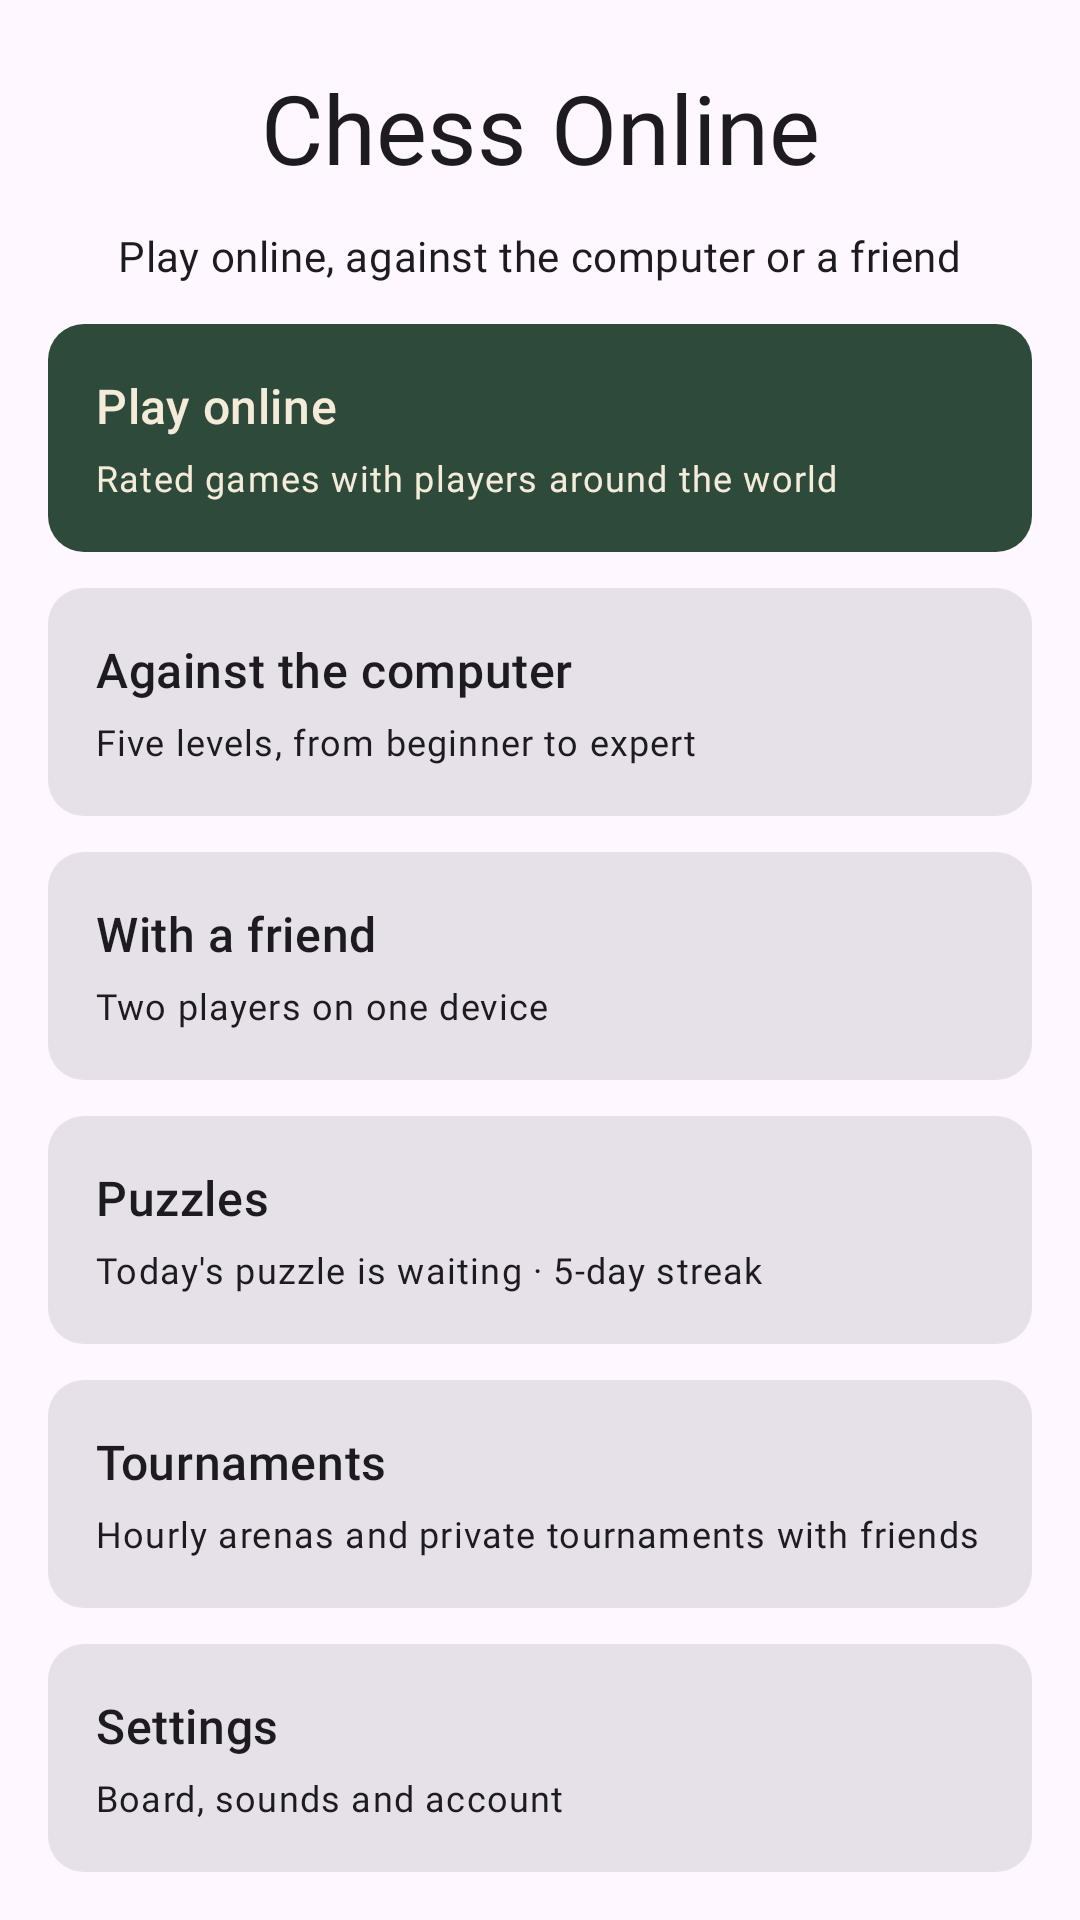
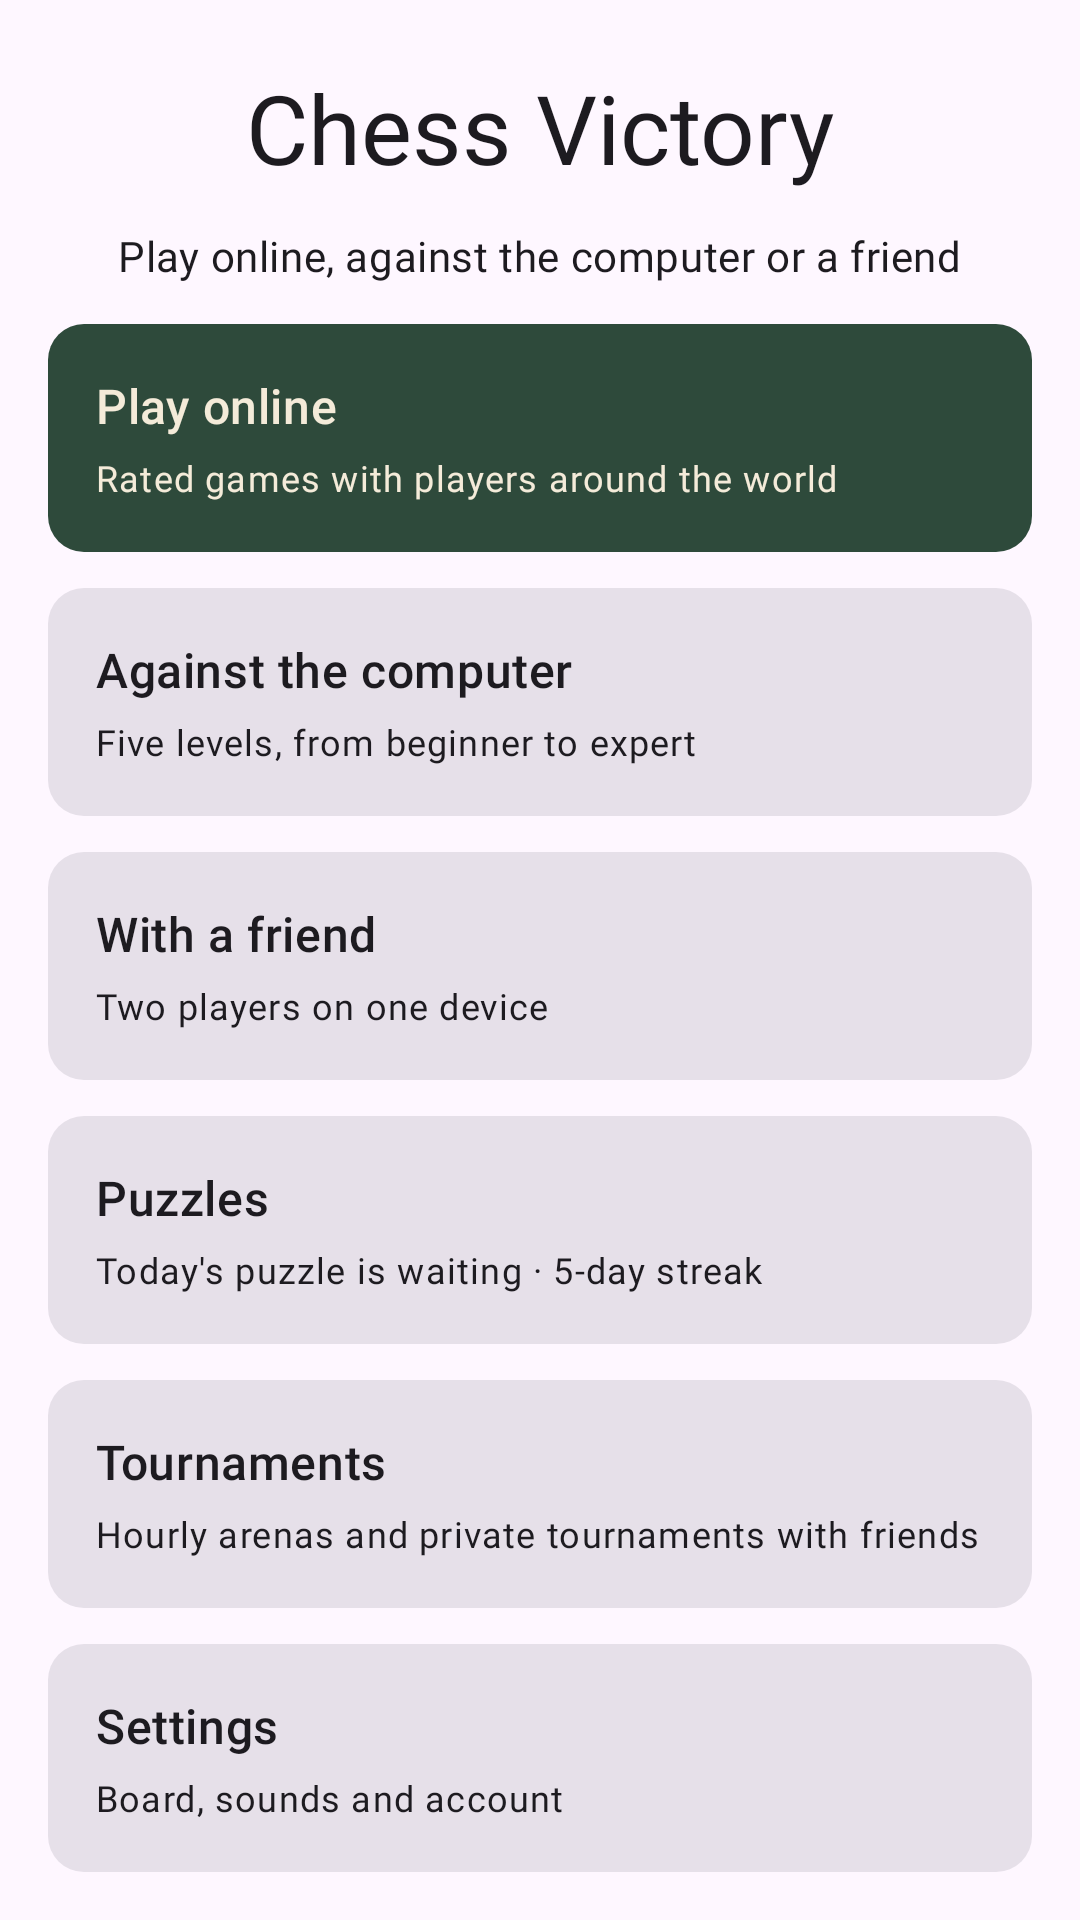
Rename the app to Chess Victory and fill in the operator's details
- Launcher name, invitation text, licenses screen, website and store listing texts use Chess Victory;
  store images re-rendered.
- Privacy policy, terms and the account deletion page name the operator: OOO «СИТИОПТОМ»,
  OGRN 1107746643509, INN 7722725129, 107553, Moscow, ul. Amurskaya, 1A, bldg. 5, apt. 474.

Claude-Session: https://claude.ai/code/session_01X6DxvEyHVQaRiXzQPfYiU6

Changed region(s): [[0.2139, 0.0312, 0.7639, 0.0938]]

diff --git a/server/src/main/resources/site/terms.html b/server/src/main/resources/site/terms.html
@@ -3,17 +3,16 @@
 <head>
 <meta charset="utf-8">
 <meta name="viewport" content="width=device-width,initial-scale=1">
-<title>Пользовательское соглашение — Шахматы онлайн</title>
+<title>Пользовательское соглашение — Chess Victory</title>
 <link rel="stylesheet" href="/style.css">
 </head>
 <body>
 <nav><a href="/">Главная</a><a href="/privacy.html">Конфиденциальность</a><a href="/delete-account.html">Удаление аккаунта</a><a href="#en">English</a></nav>
 <h1>Пользовательское соглашение</h1>
-<p class="meta">Приложение «Шахматы онлайн» (Android, ru.fourvic.chess). Редакция 1.0 от 27.10.2026.</p>
+<p class="meta">Приложение «Chess Victory» (Android, ru.fourvic.chess). Редакция 1.0 от 27.10.2026.</p>
 
 <h2>1. Стороны и предмет</h2>
-<p>Соглашение заключается между вами и <span class="fill">[ФИО индивидуального предпринимателя или название организации]</span>,
-<span class="fill">[ИНН / ОГРНИП]</span> (далее — «мы»). Мы бесплатно предоставляем право пользоваться приложением: играть
+<p>Соглашение заключается между вами и ООО «СИТИОПТОМ» (ОГРН 1107746643509, ИНН 7722725129, далее — «мы»). Мы бесплатно предоставляем право пользоваться приложением: играть
 с компьютером и с другими людьми, решать задачи, участвовать в турнирах. Начиная онлайн-игру, вы принимаете это соглашение
 и <a href="/privacy.html">политику конфиденциальности</a>.</p>
 <p>Если во время поиска партии подходящих соперников в сети нет, с вами может сыграть компьютерный соперник. Такие партии
@@ -54,8 +53,8 @@
 
 <hr id="en">
 <h1>Terms of use</h1>
-<p class="meta">Chess Online for Android (ru.fourvic.chess). Version 1.0 of 27 October 2026.</p>
-<p>These terms are an agreement between you and <span class="fill">[name of the sole proprietor or company]</span> ("we").
+<p class="meta">Chess Victory for Android (ru.fourvic.chess). Version 1.0 of 27 October 2026.</p>
+<p>These terms are an agreement between you and SITIOPTOM LLC (OGRN 1107746643509, INN 7722725129, "we").
 The app is free: you may play against the computer and other people, solve puzzles and join tournaments.
 By playing online you accept these terms and the <a href="/privacy.html#en">privacy policy</a>.
 When nobody suitable is looking for a game, a computer opponent may play you; such games follow the same rules and count

diff --git a/server/src/main/resources/site/privacy.html b/server/src/main/resources/site/privacy.html
@@ -3,17 +3,17 @@
 <head>
 <meta charset="utf-8">
 <meta name="viewport" content="width=device-width,initial-scale=1">
-<title>Политика конфиденциальности — Шахматы онлайн</title>
+<title>Политика конфиденциальности — Chess Victory</title>
 <link rel="stylesheet" href="/style.css">
 </head>
 <body>
 <nav><a href="/">Главная</a><a href="/terms.html">Соглашение</a><a href="/delete-account.html">Удаление аккаунта</a><a href="#en">English</a></nav>
 <h1>Политика конфиденциальности</h1>
-<p class="meta">Приложение «Шахматы онлайн» (Android, идентификатор ru.fourvic.chess). Редакция 1.0 от 27.10.2026.</p>
+<p class="meta">Приложение «Chess Victory» (Android, идентификатор ru.fourvic.chess). Редакция 1.0 от 27.10.2026.</p>
 
 <h2>1. Кто обрабатывает данные</h2>
-<p>Оператор персональных данных: <span class="fill">[ФИО индивидуального предпринимателя или название организации]</span>,
-<span class="fill">[ИНН / ОГРНИП]</span>, адрес: <span class="fill">[почтовый адрес]</span>.
+<p>Оператор персональных данных: ООО «СИТИОПТОМ», ОГРН 1107746643509, ИНН 7722725129,
+адрес: 107553, г. Москва, ул. Амурская, д. 1А, к. 5, кв. 474.
 По всем вопросам о данных пишите на <a href="mailto:support@4vic.ru">support@4vic.ru</a>.</p>
 
 <h2>2. Какие данные мы получаем</h2>
@@ -68,11 +68,11 @@
 
 <hr id="en">
 <h1>Privacy policy</h1>
-<p class="meta">Chess Online for Android (package ru.fourvic.chess). Version 1.0 of 27 October 2026.</p>
+<p class="meta">Chess Victory for Android (package ru.fourvic.chess). Version 1.0 of 27 October 2026.</p>
 
 <h2>Who processes the data</h2>
-<p>The data controller is <span class="fill">[name of the sole proprietor or company]</span>,
-<span class="fill">[taxpayer number]</span>, <span class="fill">[postal address]</span>.
+<p>The data controller is SITIOPTOM LLC (OOO «СИТИОПТОМ»), OGRN 1107746643509, INN 7722725129,
+107553, Moscow, ul. Amurskaya, 1A, bldg. 5, apt. 474, Russia.
 Contact: <a href="mailto:support@4vic.ru">support@4vic.ru</a>.</p>
 
 <h2>What we collect</h2>

diff --git a/server/src/main/resources/site/delete-account.html b/server/src/main/resources/site/delete-account.html
@@ -3,13 +3,13 @@
 <head>
 <meta charset="utf-8">
 <meta name="viewport" content="width=device-width,initial-scale=1">
-<title>Удаление аккаунта — Шахматы онлайн</title>
+<title>Удаление аккаунта — Chess Victory</title>
 <link rel="stylesheet" href="/style.css">
 </head>
 <body>
 <nav><a href="/">Главная</a><a href="/privacy.html">Конфиденциальность</a><a href="/terms.html">Соглашение</a><a href="#en">English</a></nav>
 <h1>Удаление аккаунта</h1>
-<p class="meta">Приложение «Шахматы онлайн» (ru.fourvic.chess), разработчик <span class="fill">[ФИО или название]</span>.</p>
+<p class="meta">Приложение «Chess Victory» (ru.fourvic.chess), разработчик ООО «СИТИОПТОМ».</p>
 
 <h2>В приложении</h2>
 <div class="card">

diff --git a/server/src/main/resources/site/index.html b/server/src/main/resources/site/index.html
@@ -3,11 +3,11 @@
 <head>
 <meta charset="utf-8">
 <meta name="viewport" content="width=device-width,initial-scale=1">
-<title>Шахматы онлайн</title>
+<title>Chess Victory — шахматы онлайн</title>
 <link rel="stylesheet" href="/style.css">
 </head>
 <body>
-<h1>Шахматы онлайн</h1>
+<h1>Chess Victory</h1>
 <p>Шахматы для Android: партии с живыми соперниками, бот на пяти уровнях, задачи и бесплатные турниры-арены.</p>
 <div class="card">
 <p><strong>Документы</strong></p>

diff --git a/docs/store/README.md b/docs/store/README.md
@@ -9,17 +9,15 @@
 | `ru/feature_graphic.png`, `en/feature_graphic.png` | Google Play: графический баннер 1024×500 |
 | `ru/screenshots/*.png`, `en/screenshots/*.png` | Скриншоты телефона 1080×1920, по порядку номеров |
 
-## Название: важно
+## Название
 
-Английское название в приложении сейчас «Chess Online» — так же называется приложение-образец
-(«Chess Online – Duel friends!»). Магазины отклоняют приложения, которые можно спутать с чужими, а владелец бренда может
-подать жалобу. Поэтому в карточке ниже стоят описательные названия, а не «Chess Online». Лучше до релиза выбрать своё
-короткое имя (например «Шахматы Арена» / «Chess Arena» — свободность имени нужно проверить поиском в обоих магазинах)
-и поменять `app_name` в `androidApp/src/main/res/values*/strings.xml`.
+**Chess Victory** — и в русской, и в английской карточке, и под иконкой на телефоне. Поиск по Google Play
+(27.10.2026) приложений с таким названием не нашёл; RuStore на автоматический запрос не ответил — проверьте поиском
+в приложении RuStore перед публикацией. Если планируется регистрация товарного знака, стоит посмотреть базы ФИПС и WIPO.
 
 ## Русская карточка
 
-**Название (до 30 знаков):** Шахматы онлайн: турниры и бот
+**Название (до 30 знаков):** Chess Victory: шахматы онлайн
 
 **Краткое описание (до 80):** Играйте с людьми и ботом, решайте задачи, побеждайте в бесплатных турнирах
 
@@ -64,7 +62,7 @@
 
 ## English listing
 
-**Title (30):** Chess: Online Arenas & Puzzles
+**Title (30):** Chess Victory: Online Chess
 
 **Short description (80):** Play people and a 5-level bot, solve puzzles, win free hourly tournaments
 
@@ -140,7 +138,5 @@
 
 ## Перед публикацией
 
-1. Заменить жёлтые заглушки (ФИО, ИНН, адрес) на страницах в `server/src/main/resources/site/`.
-2. Завести ящик support@4vic.ru.
-3. Развернуть сервер (`docs/DEPLOY.md`) и проверить ссылки выше.
-4. Решить вопрос с названием (см. выше).
+1. Завести ящик support@4vic.ru.
+2. Развернуть сервер (`docs/DEPLOY.md`) и проверить ссылки выше.

diff --git a/docs/ROADMAP.md b/docs/ROADMAP.md
@@ -1,4 +1,4 @@
-# Chess Online — roadmap: от разработки до продвижения
+# Chess Victory — roadmap: от разработки до продвижения
 
 Состояние фактов: требования магазинов и законы — на 17.09.2026, турниры — на 26.10.2026.
 Документ не заменяет консультацию юриста и бухгалтера.
@@ -31,7 +31,7 @@ Google Play и RuStore.
 
 **Что нужно от владельца проекта:**
 1. ~~Выбрать идентификатор приложения~~ — `ru.fourvic.chess`.
-2. Выбрать своё название вместо «Chess Online» (совпадает с образцом), см. `docs/store/README.md`.
+2. ~~Выбрать своё название~~ — «Chess Victory».
 3. VPS в России и A-запись `chess.4vic.ru`, затем `docs/DEPLOY.md` (около часа).
 4. Реквизиты оператора в документах на сайте, ящик support@4vic.ru, уведомление в Роскомнадзор
    (pd.rkn.gov.ru) до начала обработки данных; документы стоит показать юристу.
@@ -296,7 +296,7 @@ production на новом Personal-аккаунте — 3–5 недель.
 
 ### 8.2. ASO
 
-- Название: `Chess Online: Play with Friends` и `Шахматы онлайн — с друзьями`.
+- Название: `Chess Victory: Online Chess` и `Chess Victory: шахматы онлайн`.
 - Краткое описание: «Play chess online with friends, join tournaments & solve daily puzzles!»
 - Ключевые слова: chess online, chess tournament, play chess with friends, chess vs computer, chess puzzles;
   шахматы онлайн, шахматный турнир, шахматы с друзьями, шахматные задачи.

diff --git a/README.md b/README.md
@@ -1,4 +1,4 @@
-# Chess Online (MobCheckMate)
+# Chess Victory (MobCheckMate)
 
 Мобильные онлайн-шахматы для Android: игра с людьми по сети, с компьютером, шахматные задачи и турниры.
 Ориентир по продукту — «Chess Online – Duel friends!» (com.hagstrom.henrik.chess), но с надёжным сетевым
